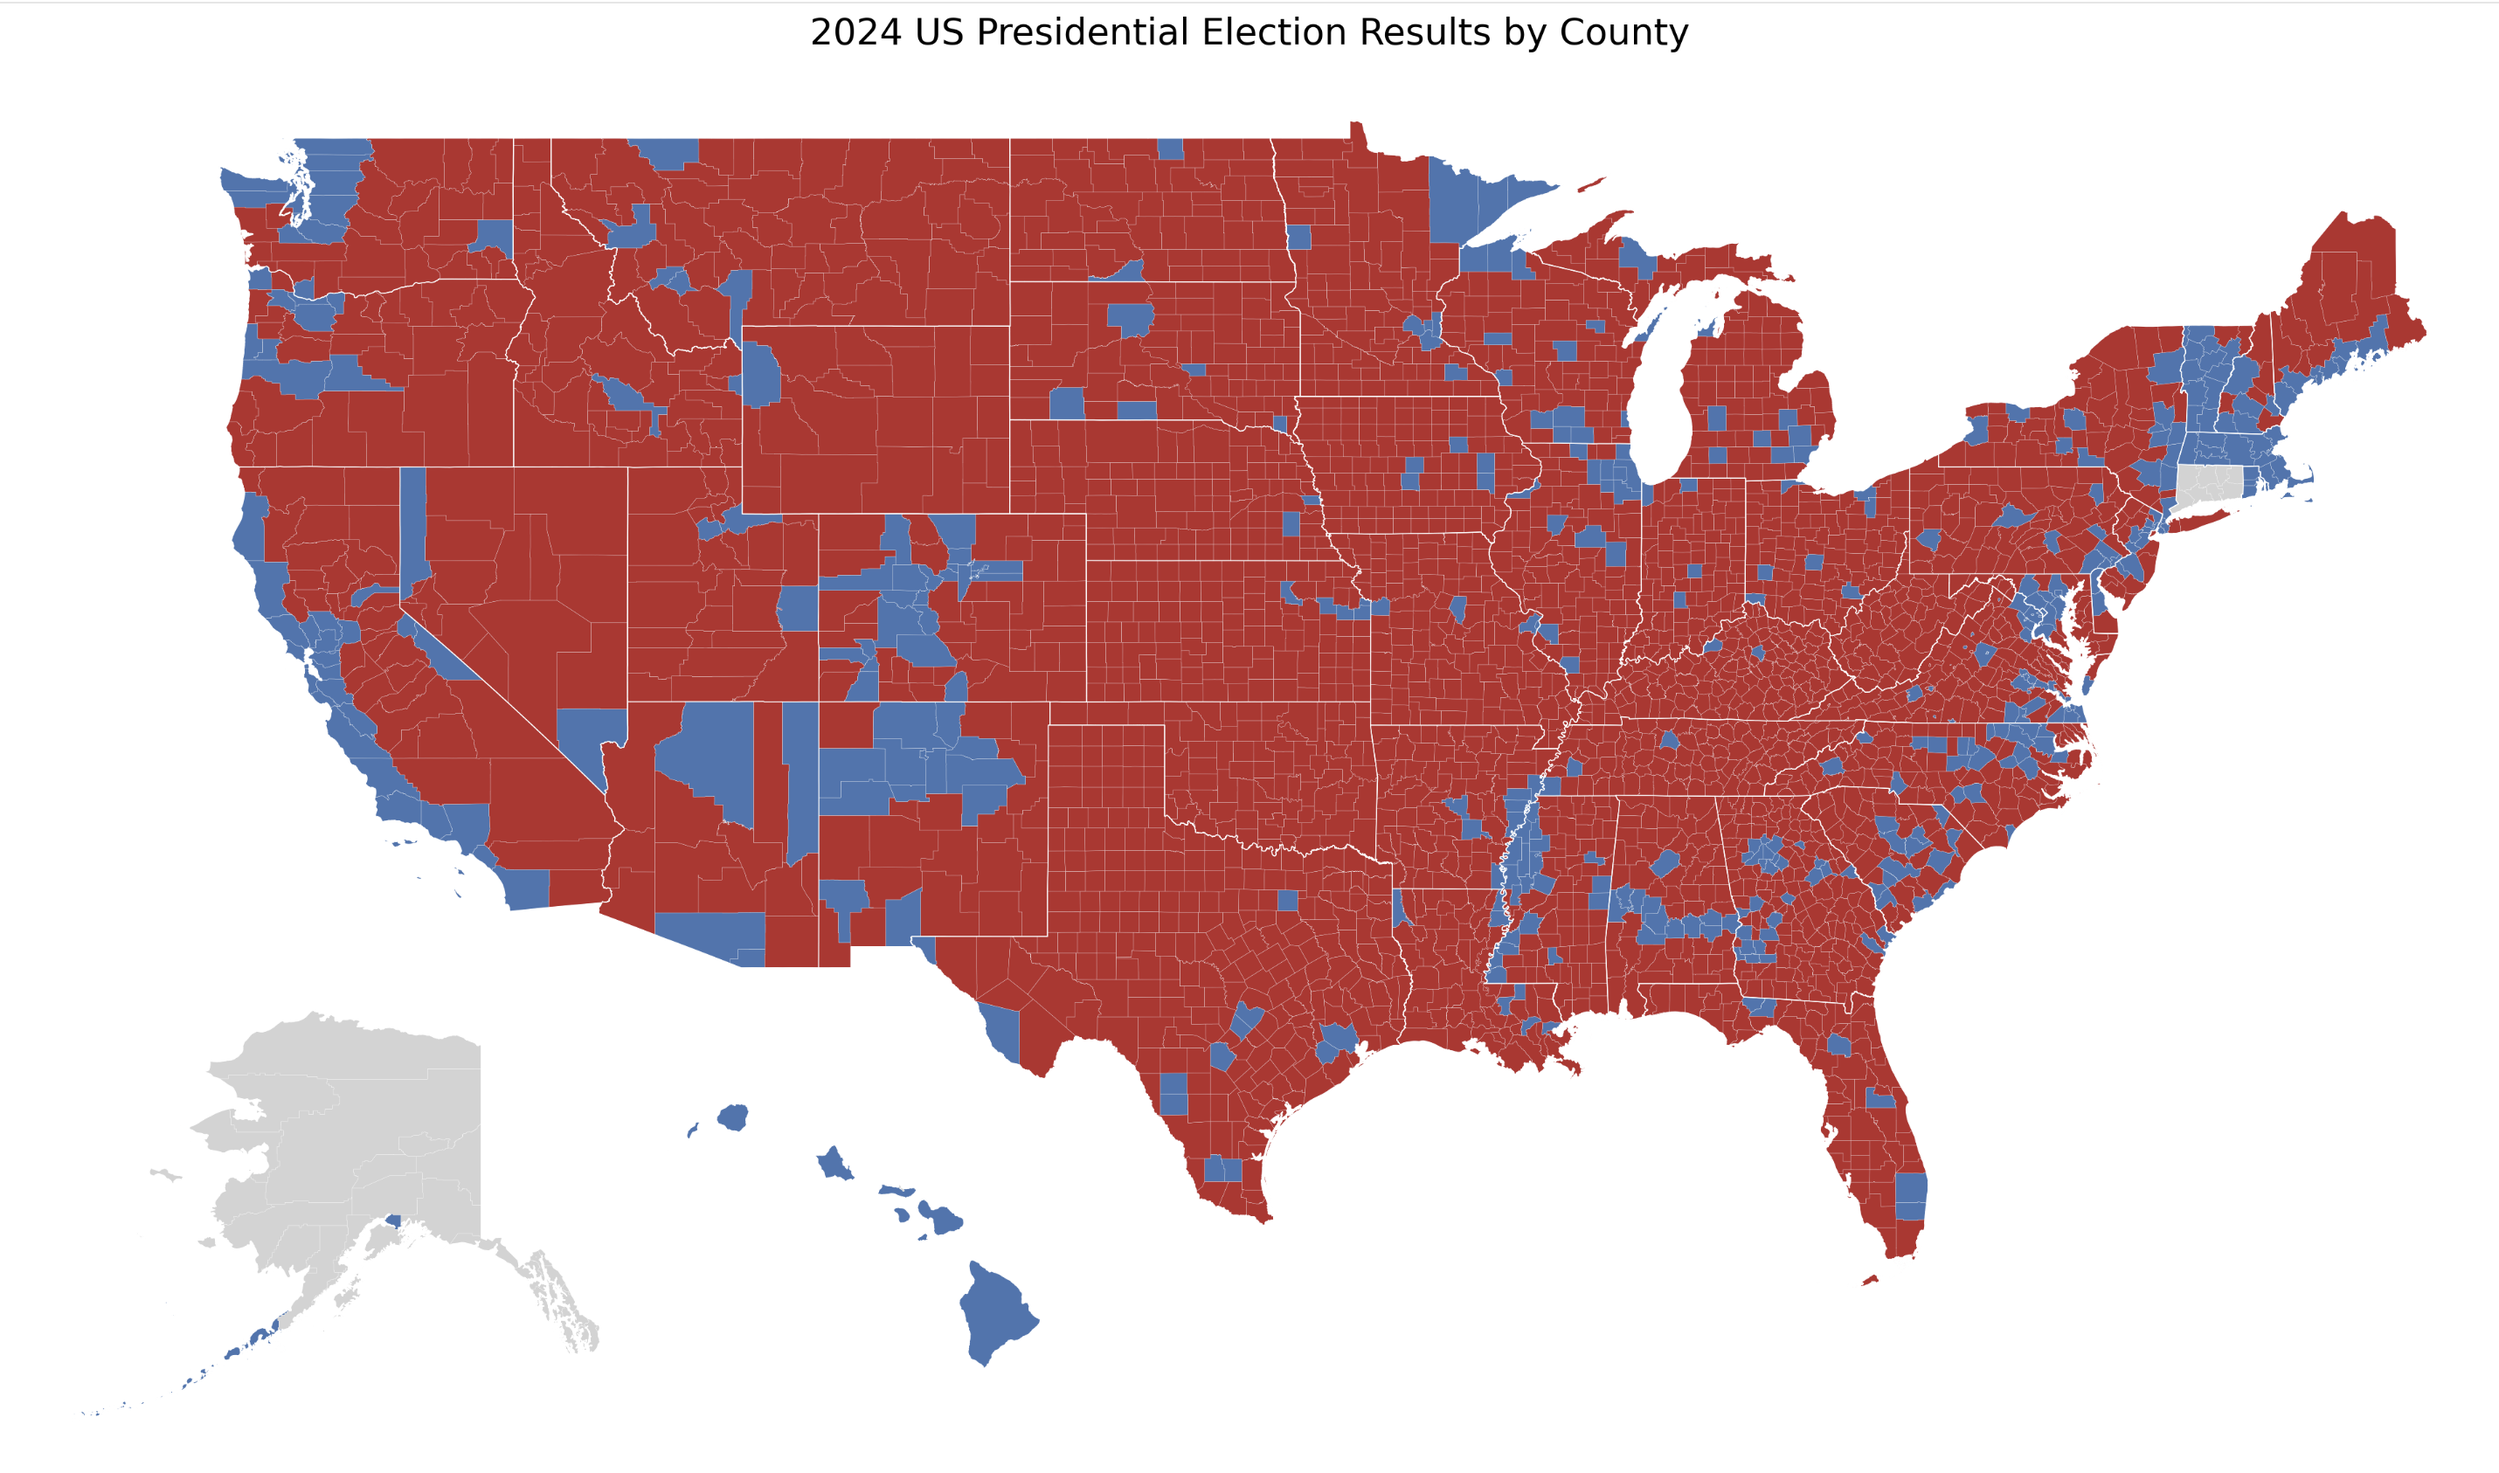
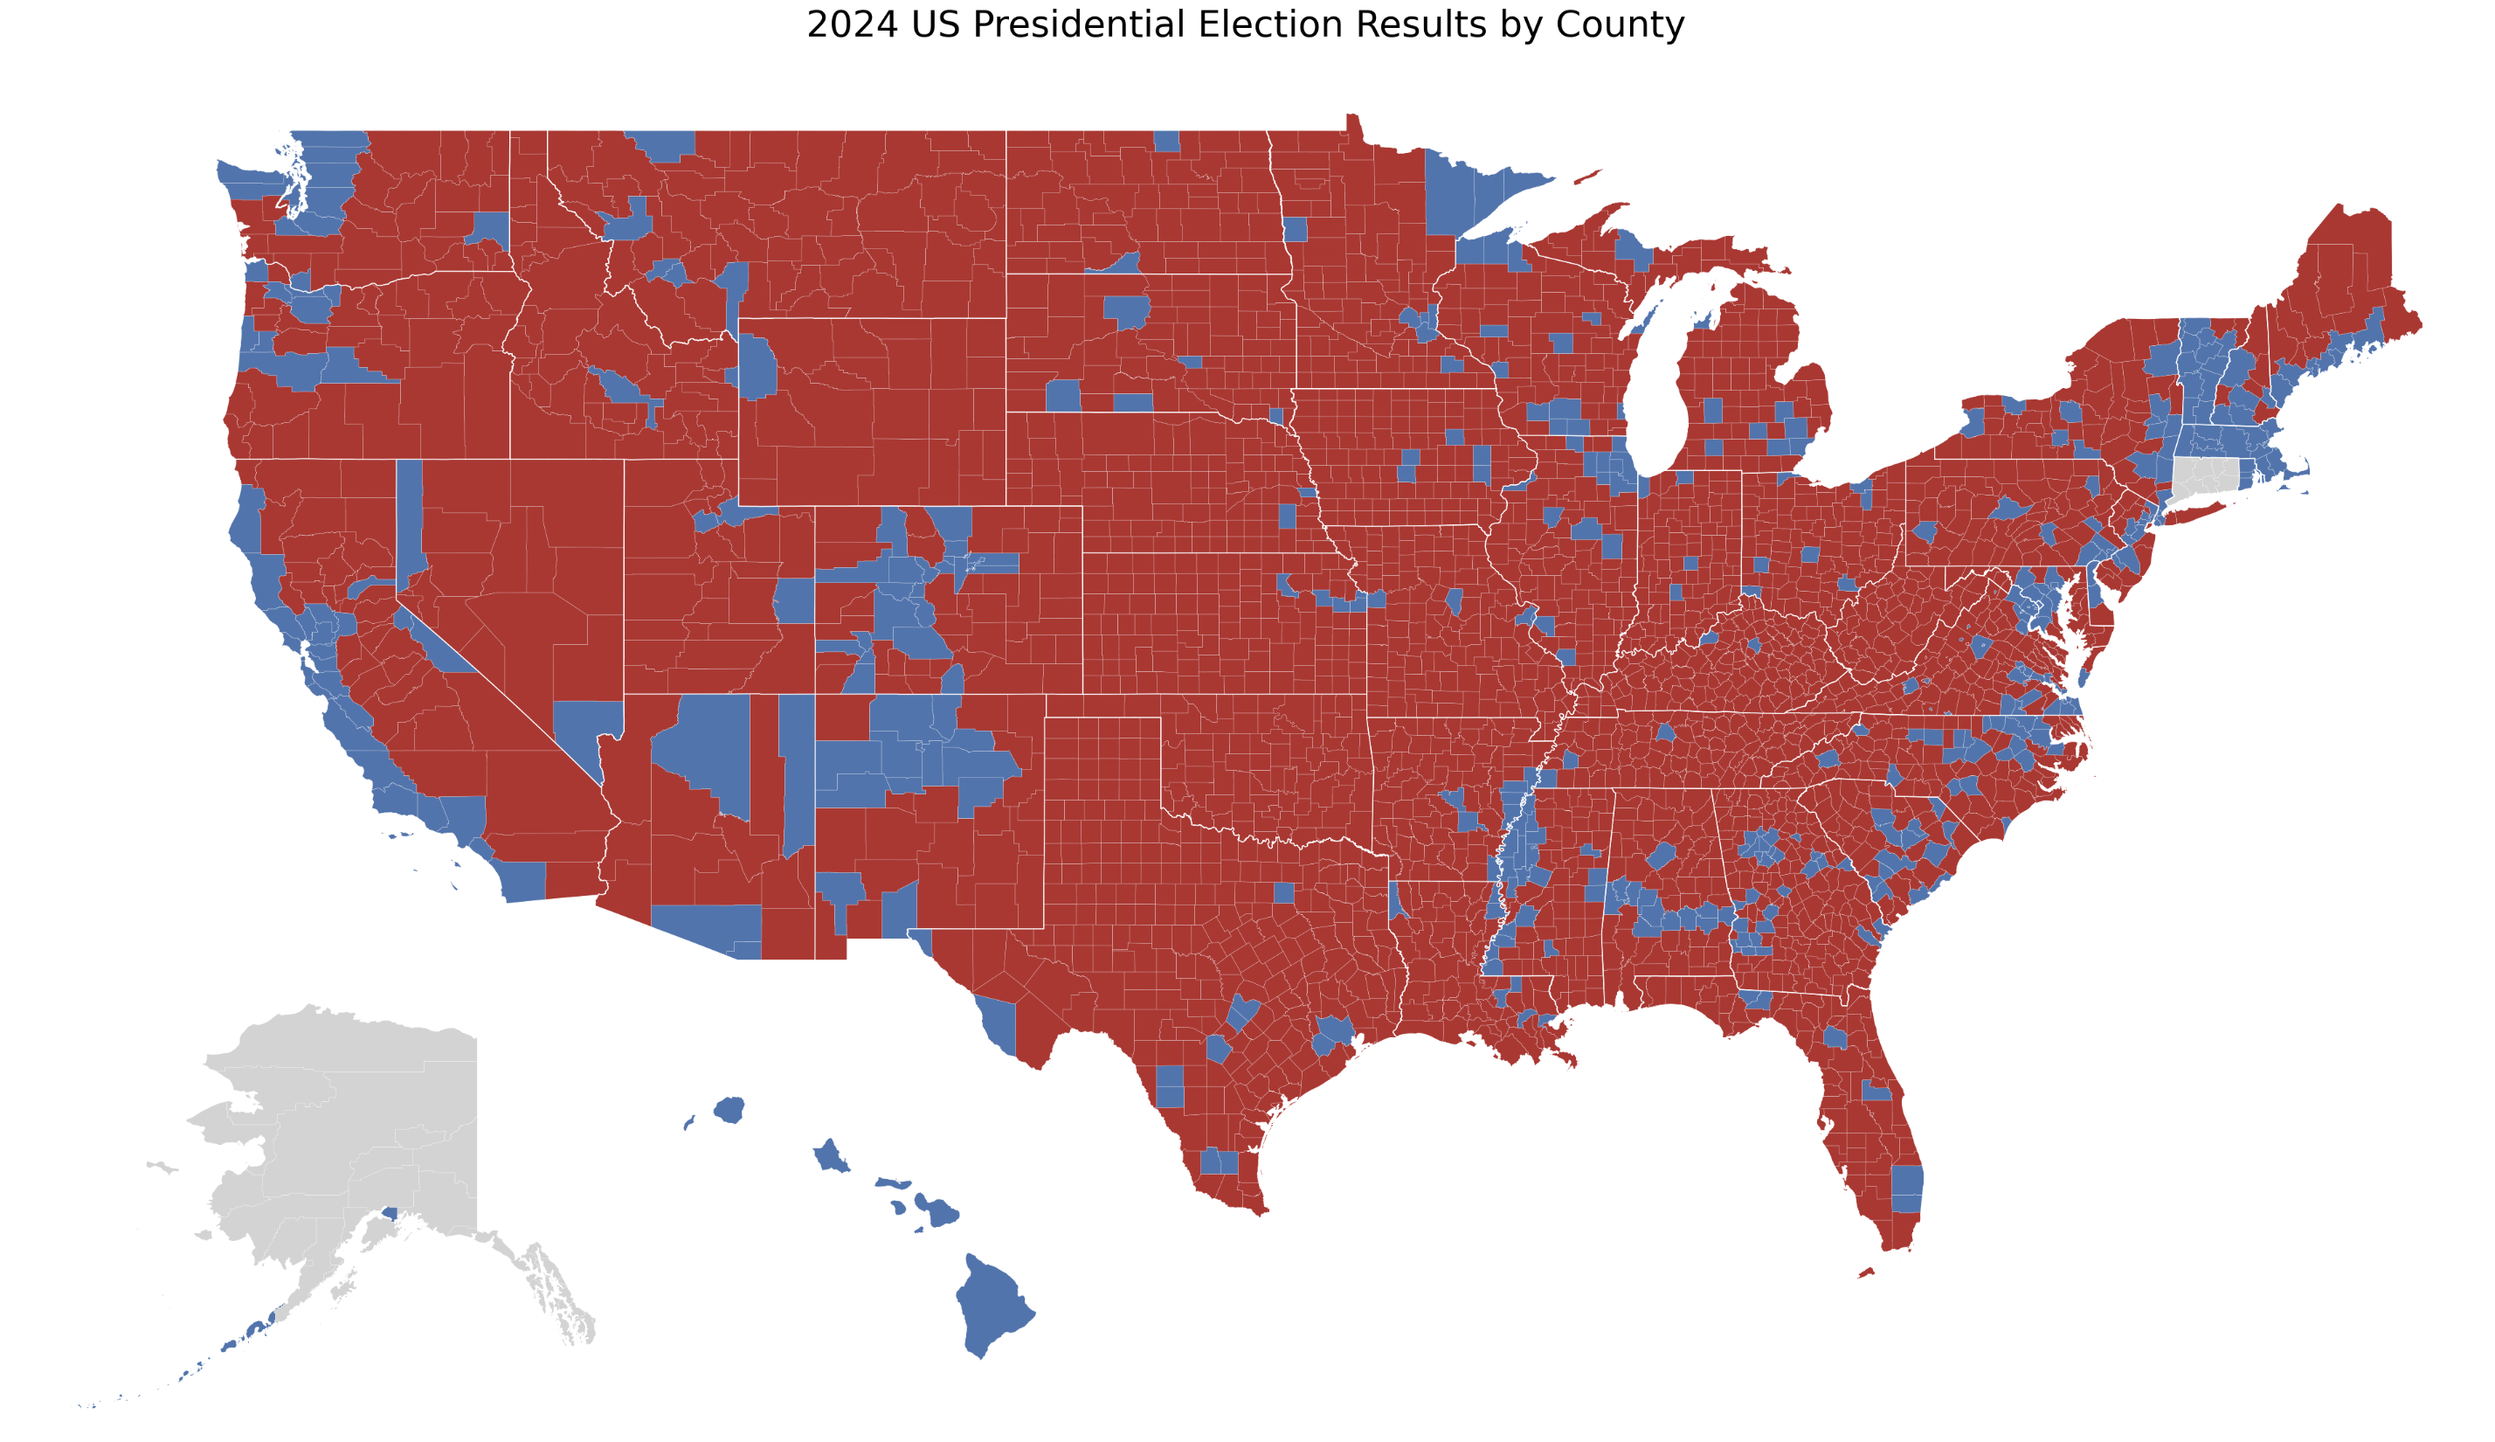
update project

diff --git a/_projects/1_project.md b/_projects/1_project.md
@@ -17,7 +17,7 @@ related_publications: false
 ### Overview
 Creating high-quality electoral maps in Python traditionally involves multiple complex steps: loading shapefiles, repositioning Alaska and Hawaii, adding state labels, applying custom colormaps, and formatting the visualization. PoliSciPy handles all of this automatically, allowing researchers and analysts to focus on their data rather than cartographic details.
 
-#### Key Features
+####g Key Features
 
 - **Single-line map generation:** Create complete electoral maps by passing a single data column
 - **Partisan colormap:** Use custom color schemes for representing political leanings and competitiveness
